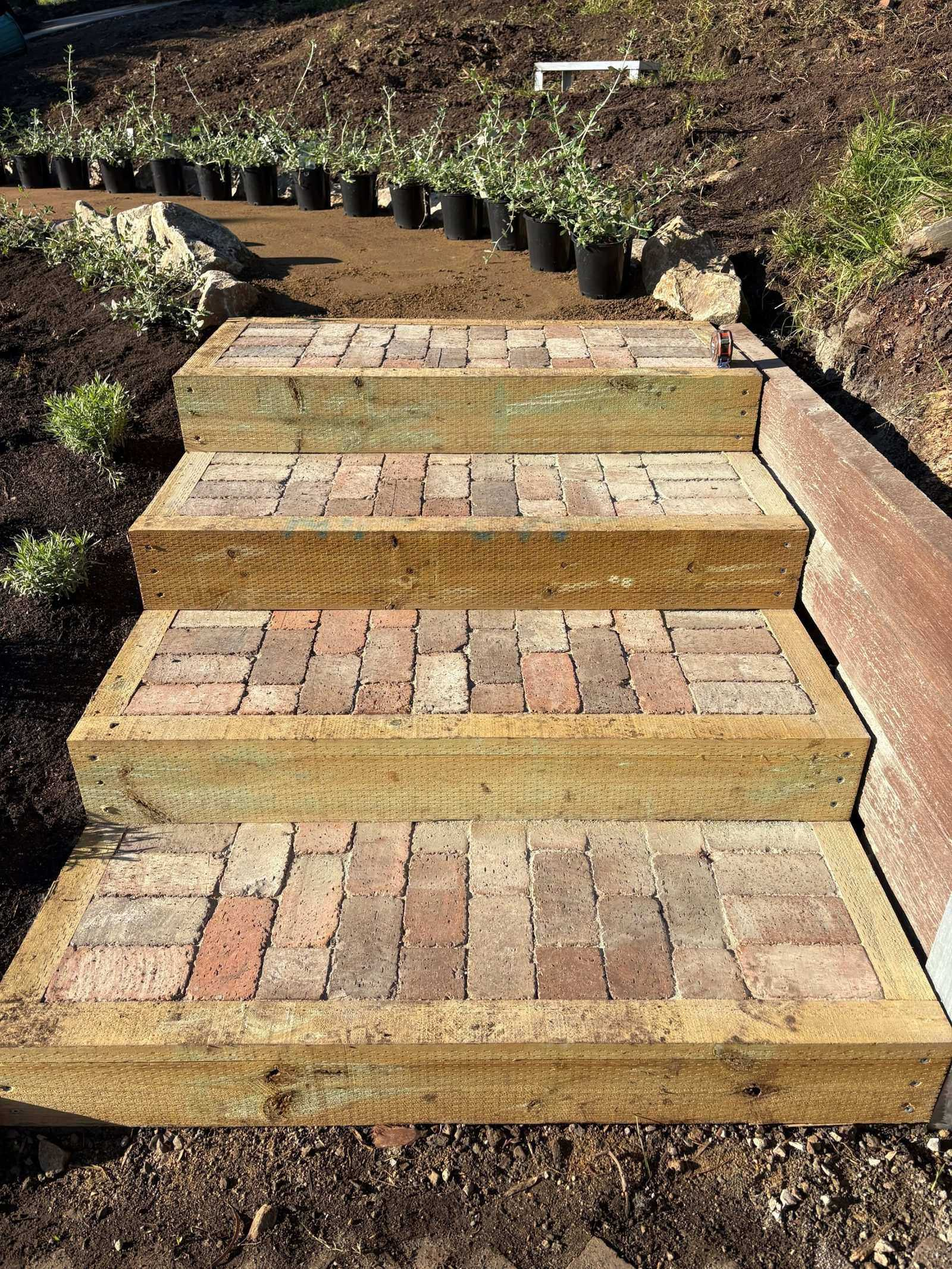
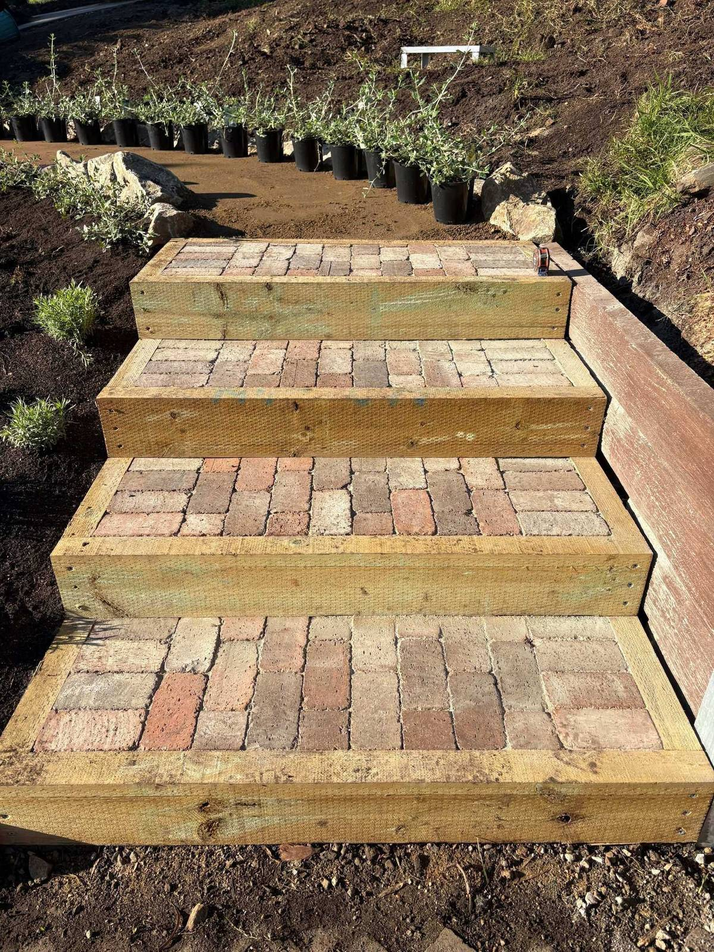
Resize brick steps image: can-excavation-landscaping

diff --git a/can-excavation-landscaping/index.html b/can-excavation-landscaping/index.html
@@ -388,7 +388,7 @@ section { padding: 4rem 1.25rem; scroll-margin-top: 68px; }
           <div class="gallery-slide"><figure class="gallery-item"><img src="images/gallery/new-turf-laid-beside-steel-edged-native-garden-800.webp" srcset="images/gallery/new-turf-laid-beside-steel-edged-native-garden-800.webp 800w, images/gallery/new-turf-laid-beside-steel-edged-native-garden.webp 1600w" sizes="(min-width: 768px) 420px, 88vw" width="1600" height="1200" alt="New turf laid beside steel edged native garden beds, CAN Excavation &amp; Landscaping" loading="lazy" decoding="async" /><figcaption>New turf and steel edged beds</figcaption></figure></div>
           <div class="gallery-slide"><figure class="gallery-item"><img src="images/gallery/new-hardwood-deck-with-timber-benches-and-water-800.webp" srcset="images/gallery/new-hardwood-deck-with-timber-benches-and-water-800.webp 800w, images/gallery/new-hardwood-deck-with-timber-benches-and-water.webp 1600w" sizes="(min-width: 768px) 420px, 88vw" width="1600" height="1200" alt="New hardwood deck with timber benches and water views, CAN Excavation &amp; Landscaping" loading="lazy" decoding="async" /><figcaption>Hardwood deck replacement</figcaption></figure></div>
           <div class="gallery-slide"><figure class="gallery-item"><img src="images/gallery/hardwood-decking-boards-along-brick-home-800.webp" srcset="images/gallery/hardwood-decking-boards-along-brick-home-800.webp 800w, images/gallery/hardwood-decking-boards-along-brick-home.webp 1600w" sizes="(min-width: 768px) 420px, 88vw" width="1600" height="2133" alt="Hardwood decking boards along brick home, CAN Excavation &amp; Landscaping" loading="lazy" decoding="async" /><figcaption>Hardwood decking</figcaption></figure></div>
-          <div class="gallery-slide"><figure class="gallery-item"><img src="images/gallery/timber-framed-garden-steps-with-recycled-brick-pavers-800.webp" srcset="images/gallery/timber-framed-garden-steps-with-recycled-brick-pavers-800.webp 800w, images/gallery/timber-framed-garden-steps-with-recycled-brick-pavers.webp 1600w" sizes="(min-width: 768px) 420px, 88vw" width="1600" height="2133" alt="Timber framed garden steps with recycled brick pavers, CAN Excavation &amp; Landscaping" loading="lazy" decoding="async" /><figcaption>Timber and brick garden steps</figcaption></figure></div>
+          <div class="gallery-slide"><figure class="gallery-item"><img src="images/gallery/timber-framed-garden-steps-with-recycled-brick-pavers-800.webp" srcset="images/gallery/timber-framed-garden-steps-with-recycled-brick-pavers-800.webp 800w, images/gallery/timber-framed-garden-steps-with-recycled-brick-pavers.webp 1200w" sizes="(min-width: 768px) 420px, 88vw" width="1200" height="1600" alt="Timber framed garden steps with recycled brick pavers, CAN Excavation &amp; Landscaping" loading="lazy" decoding="async" /><figcaption>Timber and brick garden steps</figcaption></figure></div>
           <div class="gallery-slide"><figure class="gallery-item"><img src="images/gallery/side-path-with-pebble-gravel-and-timber-edging-800.webp" srcset="images/gallery/side-path-with-pebble-gravel-and-timber-edging-800.webp 800w, images/gallery/side-path-with-pebble-gravel-and-timber-edging.webp 1600w" sizes="(min-width: 768px) 420px, 88vw" width="1600" height="2133" alt="Side path with pebble gravel and timber edging beside new garden bed, CAN Excavation &amp; Landscaping" loading="lazy" decoding="async" /><figcaption>Gravel side path and garden bed</figcaption></figure></div>
           <div class="gallery-slide"><figure class="gallery-item"><img src="images/gallery/new-exposed-concrete-driveway-crossover-from-the-road-800.webp" srcset="images/gallery/new-exposed-concrete-driveway-crossover-from-the-road-800.webp 800w, images/gallery/new-exposed-concrete-driveway-crossover-from-the-road.webp 1600w" sizes="(min-width: 768px) 420px, 88vw" width="1600" height="1200" alt="New exposed concrete driveway crossover from the road, CAN Excavation &amp; Landscaping" loading="lazy" decoding="async" /><figcaption>Concrete driveway crossover</figcaption></figure></div>
           <div class="gallery-slide"><figure class="gallery-item"><img src="images/gallery/winding-gravel-paths-with-steel-edging-through-new-800.webp" srcset="images/gallery/winding-gravel-paths-with-steel-edging-through-new-800.webp 800w, images/gallery/winding-gravel-paths-with-steel-edging-through-new.webp 1600w" sizes="(min-width: 768px) 420px, 88vw" width="1600" height="1200" alt="Winding gravel paths with steel edging through new lawn, CAN Excavation &amp; Landscaping" loading="lazy" decoding="async" /><figcaption>Gravel paths with steel edging</figcaption></figure></div>
